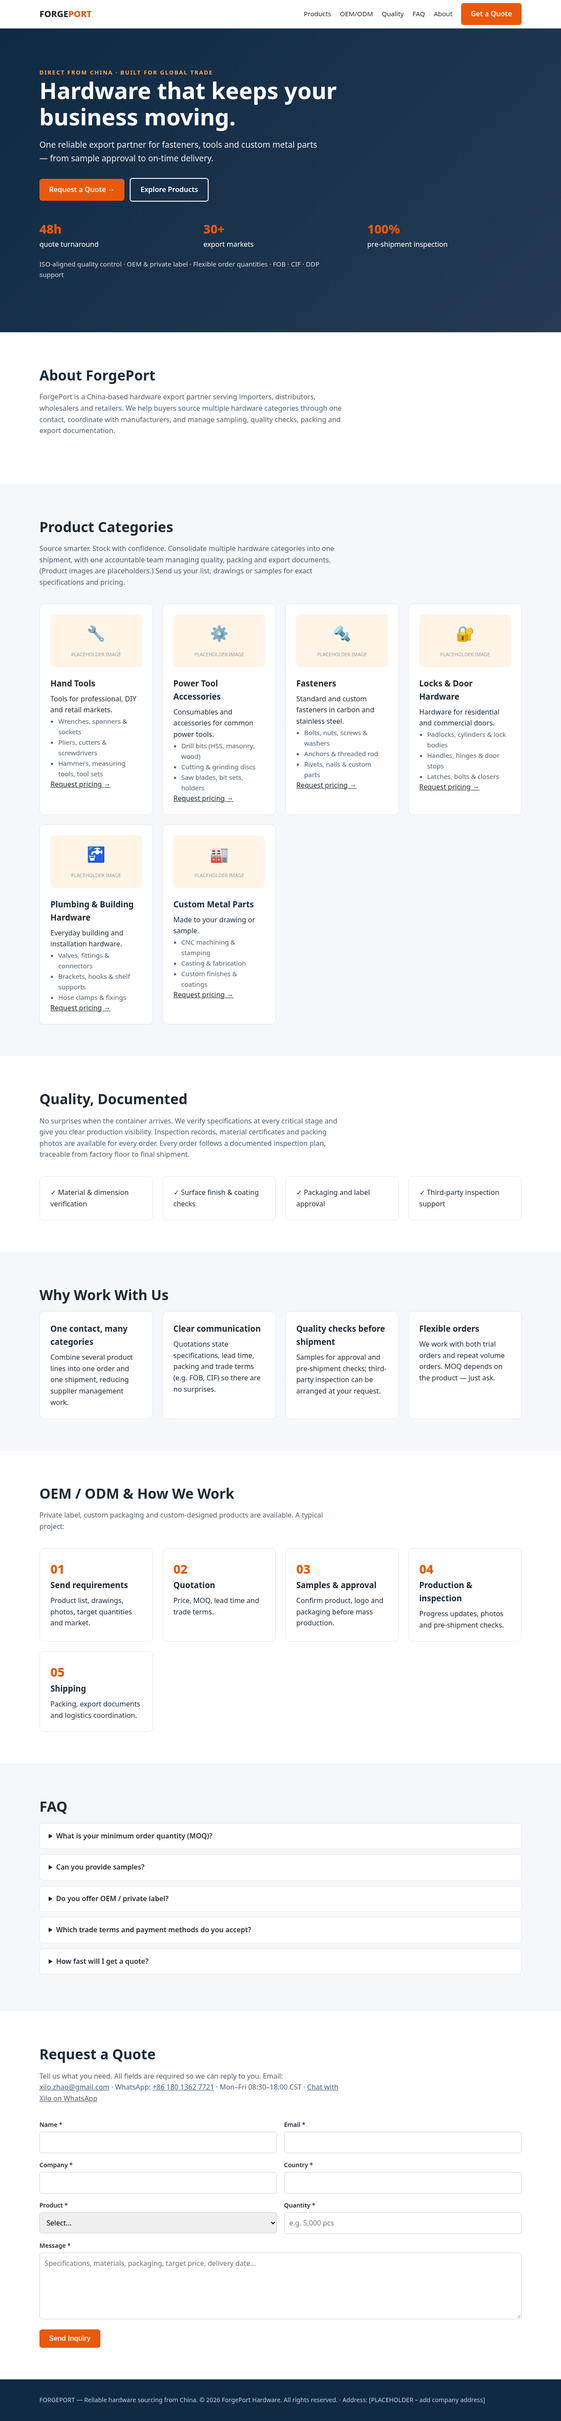
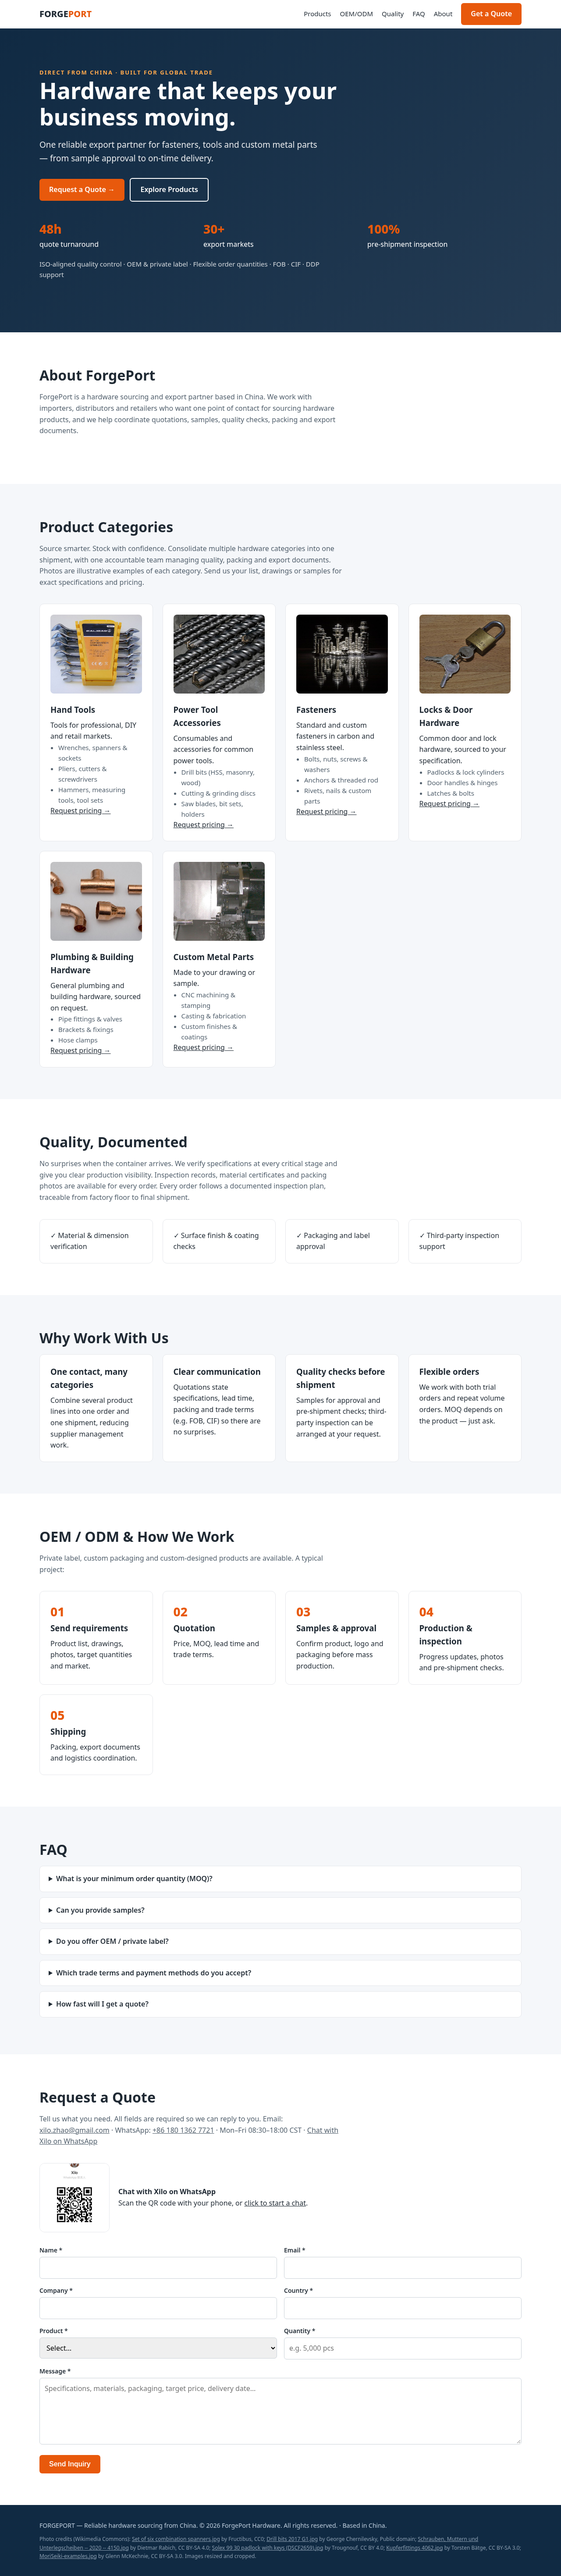
Add product photos, WhatsApp QR, refine copy

diff --git a/index.html b/index.html
@@ -13,7 +13,7 @@ header{position:sticky;top:0;background:#fff;border-bottom:1px solid #e5e7eb;z-i
 .hero{background:linear-gradient(135deg,#102a43,#243b53);color:#fff;padding:90px 0}.hero h1{font-size:clamp(32px,5vw,52px);line-height:1.15;max-width:760px}.hero p{font-size:19px;max-width:640px;margin:20px 0 30px;opacity:.9}.tag{color:#ffa94d;font-weight:700;letter-spacing:2px;font-size:13px}
 section{padding:72px 0}section:nth-of-type(even){background:#f5f7fa}h2{font-size:32px;margin-bottom:12px}.lead{color:#52606d;max-width:700px;margin-bottom:36px}
 .g{display:grid;gap:22px;grid-template-columns:repeat(auto-fit,minmax(250px,1fr))}.c{background:#fff;border:1px solid #e5e7eb;border-radius:10px;padding:24px}
-.c svg{width:100%;height:120px;background:#fff4e6;border-radius:8px;margin-bottom:14px}.c h3{margin-bottom:8px}.c ul{padding-left:18px;color:#52606d;font-size:15px}
+.c img{width:100%;height:180px;object-fit:cover;border-radius:8px;margin-bottom:14px}.qr{display:flex;gap:20px;align-items:center;margin-bottom:30px}.qr img{width:160px;height:auto;border-radius:12px;border:1px solid #e5e7eb}.c h3{margin-bottom:8px}.c ul{padding-left:18px;color:#52606d;font-size:15px}
 .n{font-size:28px;font-weight:800;color:#e8590c}details{background:#fff;border:1px solid #e5e7eb;border-radius:8px;padding:16px 20px;margin-bottom:12px}summary{font-weight:600;cursor:pointer}details p{margin-top:10px;color:#52606d}
 form{display:grid;gap:16px;grid-template-columns:1fr 1fr}form .f{grid-column:1/-1}label{font-weight:600;font-size:14px;display:block;margin-bottom:4px}input,select,textarea{width:100%;padding:11px;border:1px solid #cbd2d9;border-radius:6px;font:inherit}
 .ph{font-size:12px;color:#c92a2a;font-style:italic}footer{background:#102a43;color:#bcccdc;padding:36px 0;font-size:14px}
@@ -22,14 +22,14 @@ form{display:grid;gap:16px;grid-template-columns:1fr 1fr}form .f{grid-column:1/-
 <header><div class="w"><a href="#" class="logo">FORGE<span>PORT</span></a><nav><a href="#products">Products</a><a href="#oem">OEM/ODM</a><a href="#quality">Quality</a><a href="#faq">FAQ</a><a href="#about">About</a><a href="#contact" class="btn">Get a Quote</a></nav></div></header>
 <div class="hero"><div class="w"><div class="tag">DIRECT FROM CHINA · BUILT FOR GLOBAL TRADE</div><h1>Hardware that keeps your business moving.</h1><p>One reliable export partner for fasteners, tools and custom metal parts — from sample approval to on-time delivery.</p><a href="#contact" class="btn">Request a Quote →</a> &nbsp; <a href="#products" class="btn o">Explore Products</a><div class="g" style="margin-top:40px"><div><div class="n">48h</div>quote turnaround</div><div><div class="n">30+</div>export markets</div><div><div class="n">100%</div>pre-shipment inspection</div></div><p style="font-size:15px;opacity:.8">ISO-aligned quality control · OEM &amp; private label · Flexible order quantities · FOB · CIF · DDP support</p></div></div>
 <main>
-<section id="about"><div class="w"><h2>About ForgePort</h2><p class="lead">ForgePort is a China-based hardware export partner serving importers, distributors, wholesalers and retailers. We help buyers source multiple hardware categories through one contact, coordinate with manufacturers, and manage sampling, quality checks, packing and export documentation.</p></div></section>
-<section id="products"><div class="w"><h2>Product Categories</h2><p class="lead">Source smarter. Stock with confidence. Consolidate multiple hardware categories into one shipment, with one accountable team managing quality, packing and export documents. (Product images are placeholders.) Send us your list, drawings or samples for exact specifications and pricing.</p><div class="g">
-<div class="c"><svg viewBox="0 0 200 120" role="img" aria-label="Placeholder image"><text x="100" y="55" text-anchor="middle" font-size="34">🔧</text><text x="100" y="95" text-anchor="middle" font-size="11" fill="#999">PLACEHOLDER IMAGE</text></svg><h3>Hand Tools</h3><p>Tools for professional, DIY and retail markets.</p><ul><li>Wrenches, spanners &amp; sockets</li><li>Pliers, cutters &amp; screwdrivers</li><li>Hammers, measuring tools, tool sets</li></ul><a href="#contact">Request pricing →</a></div>
-<div class="c"><svg viewBox="0 0 200 120" role="img" aria-label="Placeholder image"><text x="100" y="55" text-anchor="middle" font-size="34">⚙</text><text x="100" y="95" text-anchor="middle" font-size="11" fill="#999">PLACEHOLDER IMAGE</text></svg><h3>Power Tool Accessories</h3><p>Consumables and accessories for common power tools.</p><ul><li>Drill bits (HSS, masonry, wood)</li><li>Cutting &amp; grinding discs</li><li>Saw blades, bit sets, holders</li></ul><a href="#contact">Request pricing →</a></div>
-<div class="c"><svg viewBox="0 0 200 120" role="img" aria-label="Placeholder image"><text x="100" y="55" text-anchor="middle" font-size="34">🔩</text><text x="100" y="95" text-anchor="middle" font-size="11" fill="#999">PLACEHOLDER IMAGE</text></svg><h3>Fasteners</h3><p>Standard and custom fasteners in carbon and stainless steel.</p><ul><li>Bolts, nuts, screws &amp; washers</li><li>Anchors &amp; threaded rod</li><li>Rivets, nails &amp; custom parts</li></ul><a href="#contact">Request pricing →</a></div>
-<div class="c"><svg viewBox="0 0 200 120" role="img" aria-label="Placeholder image"><text x="100" y="55" text-anchor="middle" font-size="34">🔐</text><text x="100" y="95" text-anchor="middle" font-size="11" fill="#999">PLACEHOLDER IMAGE</text></svg><h3>Locks &amp; Door Hardware</h3><p>Hardware for residential and commercial doors.</p><ul><li>Padlocks, cylinders &amp; lock bodies</li><li>Handles, hinges &amp; door stops</li><li>Latches, bolts &amp; closers</li></ul><a href="#contact">Request pricing →</a></div>
-<div class="c"><svg viewBox="0 0 200 120" role="img" aria-label="Placeholder image"><text x="100" y="55" text-anchor="middle" font-size="34">🚰</text><text x="100" y="95" text-anchor="middle" font-size="11" fill="#999">PLACEHOLDER IMAGE</text></svg><h3>Plumbing &amp; Building Hardware</h3><p>Everyday building and installation hardware.</p><ul><li>Valves, fittings &amp; connectors</li><li>Brackets, hooks &amp; shelf supports</li><li>Hose clamps &amp; fixings</li></ul><a href="#contact">Request pricing →</a></div>
-<div class="c"><svg viewBox="0 0 200 120" role="img" aria-label="Placeholder image"><text x="100" y="55" text-anchor="middle" font-size="34">🏭</text><text x="100" y="95" text-anchor="middle" font-size="11" fill="#999">PLACEHOLDER IMAGE</text></svg><h3>Custom Metal Parts</h3><p>Made to your drawing or sample.</p><ul><li>CNC machining &amp; stamping</li><li>Casting &amp; fabrication</li><li>Custom finishes &amp; coatings</li></ul><a href="#contact">Request pricing →</a></div>
+<section id="about"><div class="w"><h2>About ForgePort</h2><p class="lead">ForgePort is a hardware sourcing and export partner based in China. We work with importers, distributors and retailers who want one point of contact for sourcing hardware products, and we help coordinate quotations, samples, quality checks, packing and export documents.</p></div></section>
+<section id="products"><div class="w"><h2>Product Categories</h2><p class="lead">Source smarter. Stock with confidence. Consolidate multiple hardware categories into one shipment, with one accountable team managing quality, packing and export documents. Photos are illustrative examples of each category. Send us your list, drawings or samples for exact specifications and pricing.</p><div class="g">
+<div class="c"><img src="img/hand-tools.jpg" alt="Combination spanners (hand tools)" width="800" height="600" loading="lazy"><h3>Hand Tools</h3><p>Tools for professional, DIY and retail markets.</p><ul><li>Wrenches, spanners &amp; sockets</li><li>Pliers, cutters &amp; screwdrivers</li><li>Hammers, measuring tools, tool sets</li></ul><a href="#contact">Request pricing →</a></div>
+<div class="c"><img src="img/power-tool-accessories.jpg" alt="Drill bits (power tool accessories)" width="800" height="600" loading="lazy"><h3>Power Tool Accessories</h3><p>Consumables and accessories for common power tools.</p><ul><li>Drill bits (HSS, masonry, wood)</li><li>Cutting &amp; grinding discs</li><li>Saw blades, bit sets, holders</li></ul><a href="#contact">Request pricing →</a></div>
+<div class="c"><img src="img/fasteners.jpg" alt="Bolts, nuts and washers (fasteners)" width="800" height="600" loading="lazy"><h3>Fasteners</h3><p>Standard and custom fasteners in carbon and stainless steel.</p><ul><li>Bolts, nuts, screws &amp; washers</li><li>Anchors &amp; threaded rod</li><li>Rivets, nails &amp; custom parts</li></ul><a href="#contact">Request pricing →</a></div>
+<div class="c"><img src="img/locks.jpg" alt="Padlock with keys (locks)" width="800" height="600" loading="lazy"><h3>Locks &amp; Door Hardware</h3><p>Common door and lock hardware, sourced to your specification.</p><ul><li>Padlocks &amp; lock cylinders</li><li>Door handles &amp; hinges</li><li>Latches &amp; bolts</li></ul><a href="#contact">Request pricing →</a></div>
+<div class="c"><img src="img/plumbing.jpg" alt="Copper pipe fittings (plumbing hardware)" width="800" height="600" loading="lazy"><h3>Plumbing &amp; Building Hardware</h3><p>General plumbing and building hardware, sourced on request.</p><ul><li>Pipe fittings &amp; valves</li><li>Brackets &amp; fixings</li><li>Hose clamps</li></ul><a href="#contact">Request pricing →</a></div>
+<div class="c"><img src="img/custom-metal.jpg" alt="CNC machined metal parts" width="800" height="600" loading="lazy"><h3>Custom Metal Parts</h3><p>Made to your drawing or sample.</p><ul><li>CNC machining &amp; stamping</li><li>Casting &amp; fabrication</li><li>Custom finishes &amp; coatings</li></ul><a href="#contact">Request pricing →</a></div>
 </div></div></section>
 <section id="quality"><div class="w"><h2>Quality, Documented</h2><p class="lead">No surprises when the container arrives. We verify specifications at every critical stage and give you clear production visibility. Inspection records, material certificates and packing photos are available for every order. Every order follows a documented inspection plan, traceable from factory floor to final shipment.</p><div class="g"><div class="c">✓ Material &amp; dimension verification</div><div class="c">✓ Surface finish &amp; coating checks</div><div class="c">✓ Packaging and label approval</div><div class="c">✓ Third-party inspection support</div></div></div></section>
 <section id="why"><div class="w"><h2>Why Work With Us</h2><div class="g">
@@ -53,6 +53,7 @@ form{display:grid;gap:16px;grid-template-columns:1fr 1fr}form .f{grid-column:1/-
 <details><summary>How fast will I get a quote?</summary><p>Send your requirements and our export team will reply within 48 hours.</p></details>
 </div></section>
 <section id="contact"><div class="w"><h2>Request a Quote</h2><p class="lead">Tell us what you need. All fields are required so we can reply to you. Email: <a href="mailto:xilo.zhao@gmail.com">xilo.zhao@gmail.com</a> · WhatsApp: <a href="https://wa.me/8618013627721">+86 180 1362 7721</a> · Mon–Fri 08:30–18:00 CST · <a href="https://wa.me/8618013627721">Chat with Xilo on WhatsApp</a></p>
+<div class="qr"><img src="img/whatsapp-qr.jpg" alt="WhatsApp QR code to chat with Xilo at ForgePort" width="400" height="395"><p><strong>Chat with Xilo on WhatsApp</strong><br>Scan the QR code with your phone, or <a href="https://wa.me/8618013627721">click to start a chat</a>.</p></div>
 <form action="https://formsubmit.co/xilo.zhao@gmail.com" method="POST">
 <input type="hidden" name="_subject" value="New ForgePort Website Inquiry"><input type="hidden" name="_template" value="table"><input type="text" name="_honey" style="display:none">
 <div><label>Name *</label><input name="name" required autocomplete="name"></div>
@@ -64,5 +65,5 @@ form{display:grid;gap:16px;grid-template-columns:1fr 1fr}form .f{grid-column:1/-
 <div class="f"><label>Message *</label><textarea name="message" rows="5" required minlength="10" placeholder="Specifications, materials, packaging, target price, delivery date…"></textarea></div>
 <div class="f"><button class="btn" type="submit">Send Inquiry</button></div></form></div></section>
 </main>
-<footer><div class="w">FORGEPORT — Reliable hardware sourcing from China. © 2026 ForgePort Hardware. All rights reserved. · <span>Address: [PLACEHOLDER – add company address]</span></div></footer>
+<footer><div class="w">FORGEPORT — Reliable hardware sourcing from China. © 2026 ForgePort Hardware. All rights reserved. · Based in China.<p style="font-size:12px;margin-top:10px;opacity:.7">Photo credits (Wikimedia Commons): <a href="https://commons.wikimedia.org/wiki/File:Set_of_six_combination_spanners.jpg">Set of six combination spanners.jpg</a> by Fructibus, CC0; <a href="https://commons.wikimedia.org/wiki/File:Drill_bits_2017_G1.jpg">Drill bits 2017 G1.jpg</a> by George Chernilevsky, Public domain; <a href="https://commons.wikimedia.org/wiki/File:Schrauben,_Muttern_und_Unterlegscheiben_--_2020_--_4150.jpg">Schrauben, Muttern und Unterlegscheiben -- 2020 -- 4150.jpg</a> by Dietmar Rabich, CC BY-SA 4.0; <a href="https://commons.wikimedia.org/wiki/File:Solex_99_30_padlock_with_keys_(DSCF2659).jpg">Solex 99 30 padlock with keys (DSCF2659).jpg</a> by Trougnouf, CC BY 4.0; <a href="https://commons.wikimedia.org/wiki/File:Kupferfittings_4062.jpg">Kupferfittings 4062.jpg</a> by Torsten Bätge, CC BY-SA 3.0; <a href="https://commons.wikimedia.org/wiki/File:MoriSeiki-examples.jpg">MoriSeiki-examples.jpg</a> by Glenn McKechnie, CC BY-SA 3.0. Images resized and cropped.</p></div></footer>
 </body></html>
